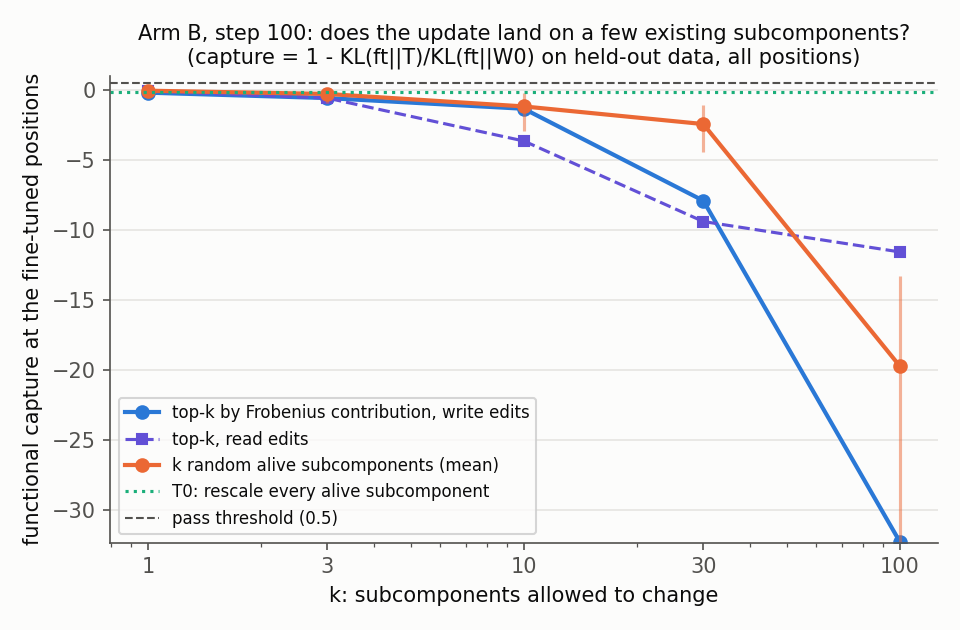
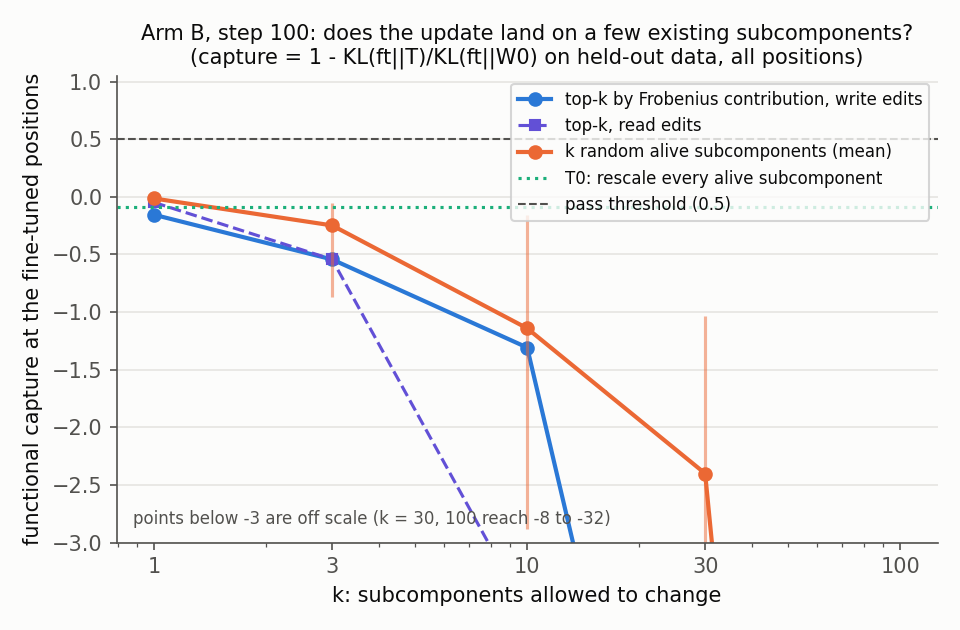
Corrections after review: PGD gap was scope after all (failed edit delayed the fix); open causes named as open; TRIED wording; arm-B axis; results notebook

diff --git a/experiments/transport_test/plot.py b/experiments/transport_test/plot.py
@@ -64,7 +64,10 @@ def capture_vs_k(arm: str) -> None:
     ax.set_xticklabels([str(k) for k in ks])
     ax.set_xlabel("k: subcomponents allowed to change")
     ax.set_ylabel("functional capture at the fine-tuned positions")
-    ax.set_ylim(min(-0.1, min(means + top) - 0.05), 1.05)
+    lo = min(means + top)
+    ax.set_ylim(max(-3.0, min(-0.1, lo - 0.05)), 1.05)
+    if lo < -3.0:
+        ax.text(0.02, 0.04, "points below -3 are off scale (k = 30, 100 reach -8 to -32)", transform=ax.transAxes, fontsize=8, color=MUTED)
     where = "emoticon position" if arm == "A" else "all positions"
     ax.set_title(f"Arm {arm}, step {step}: does the update land on a few existing subcomponents?\n(capture = 1 - KL(ft||T)/KL(ft||W0) on held-out data, {where})", fontsize=10)
     ax.grid(True, axis="y")

diff --git a/reports/2026-10-14_analysis_transport-test.md b/reports/2026-10-14_analysis_transport-test.md
@@ -2,8 +2,9 @@
 
 *2026-10-14, coding agent. Scores `experiments/transport_test/results/predictions.json` (filed 12:49, before any GPU
 run) against the results in `experiments/transport_test/results/`. Figures in `experiments/transport_test/figures/`.
-Deviations from the filed set-up, each made before the measurement it touches: the adversarial metric's scope and a
-code fix (`2026-10-14_decision_pgd-scope.md`), and the window scan size (`2026-10-14_decision_window-scan-size.md`).*
+Deviations from the filed set-up, each made before the measurement it touches: the adversarial metric's scope, one
+adversary per 128 rows as in the paper rather than per 8 (`2026-10-14_decision_pgd-scope.md`, which also records a
+failed edit that delayed the fix by one pod), and the window scan size (`2026-10-14_decision_window-scan-size.md`).*
 
 ## Headline
 
@@ -73,27 +74,27 @@ k ≥ 30 the top-k write edits reproduce the emoticon position but wreck the sur
 
 The k = 1 result is informative on its own: a single write-vector edit on the subcomponent with the largest
 Frobenius contribution (`h.2.attn.k_proj:206`) does nothing, and the top-10 set contains none of the emoticon family
-(it spans eight matrices, mostly layer 0). The paper's manual edit of `2359`'s write vector does produce the behaviour,
-so a k = 1 edit on `2359` chosen by function rather than by Frobenius contribution would very likely capture most of
-it. The Frobenius ranking across matrices is the wrong selector: it is dominated by matrices where δW is large
+(it spans eight matrices, mostly layer 0). The paper's manual edit of `2359`'s write vector does produce the behaviour; a
+k = 1 fitted write edit on `2359` is the first measurement of round 2, not a result of this one. The Frobenius ranking across matrices is the wrong selector: it is dominated by matrices where δW is large
 (the MLP input projections carry 38% of ‖δW‖²) rather than where the function changes.
 
 **Function, pretraining arm (measure 2).** Every transport fitted on 512 training rows makes the held-out model
 further from the fine-tuned one than W0 is (capture −0.09 for T0 functional, −0.16 to −32 for k-sparse edits, the
-random sets likewise). The fine-tune's held-out effect is 0.014 nats; the fits chase training noise larger than that.
-By the filed conditioning rule this is a fail, not an ill-conditioned run, but the honest reading is that the
-functional side of arm B needs a larger effect before it says anything about commuting; the Frobenius side (ratio
-1.5) does not have that problem and fails cleanly.
+random sets likewise). The fine-tune's held-out effect is 0.014 nats. Whether the fits overfit the training rows or
+the α parametrisation cannot represent this update is not settled by what was recorded: training-set capture was
+not measured. That measurement, and a fine-tune with a held-out effect of order 0.1 nats, settle it. By the filed
+conditioning rule this is a fail, not an ill-conditioned run. The Frobenius side (ratio 1.5) does not depend on the
+fit and fails cleanly.
 
 **Faithfulness at W0 + δW (measure 3).** Stochastic ratios are 0.94 to 1.02 for every variant and checkpoint in both
 arms. Adversarial ratios for arm B are 1.05 to 1.18. For arm A at step 10 the null transport gives 2.43 and T0
 2.32, both from block 1 (2.6 against 0.8 for block 0; on W0 the blocks are 0.68 and 0.72); T1 write k=10 gives 1.43;
-at steps 30, 100 and 300 the null transport gives 1.02, 1.14 and 1.27 with larger δW. The unmasked KL of the
-untouched decomposition rises from 0.012 on W0 to 0.034 to 0.063 on the fine-tuned models: Δ absorbs δW and the
-decomposition's own reconstruction of the new model is three to five times worse than of the old, while the stochastic
-metric, which routes through Δ with its own mask, does not see it. The brittleness branch of `GOALS.md` is not
+at steps 30, 100 and 300 the null transport gives 1.02, 1.14 and 1.27 with larger δW. The brittleness branch of `GOALS.md` is not
 supported: no variant loses faithfulness by the stochastic measure, and the adversarial excursion is one block at one
-checkpoint.
+checkpoint. One more number belongs with measure 1 rather than here: the unmasked KL with Δ excluded rises from 0.012
+on W0 to 0.034 to 0.063 on the fine-tuned models under the null transport. With Δ excluded that quantity is close to
+the size of the fine-tune's own effect, and with Δ included it is zero by construction; it says δW went into Δ,
+which is the span result again, not a faithfulness loss.
 
 **Location (measure 4).** At step 10 the emoticon family is where the paper's editing section put it: `2359` second
 in its matrix, with a negative α (δW shrinks `2359`'s direction while adding the `o` push elsewhere), `3382`, `1672`
@@ -115,8 +116,7 @@ update grows, even though the behaviour is saturated from step 10 on.
   missed it.
 - Arm A needs checkpoints at steps 1 to 5; arm B needs a learning rate that gives a held-out effect of order 0.1
   nats before its functional half means anything.
-- Measure 3 should include the unmasked KL (Δ included and excluded) as the sensitive faithfulness number; the
-  stochastic metric is blind to δW moving into Δ.
+- Record training-set capture beside held-out capture, so overfitting and under-parametrisation can be told apart.
 
 None of these are the re-decomposition test or the toy-model calibration in `backlog.md`; they are the next round of
 the same experiment with a better null and selector, and they go through `/design` first.

diff --git a/experiments/TRIED.md b/experiments/TRIED.md
@@ -16,4 +16,4 @@ result, or proposal that gets dropped. Each row says what was found and why we m
 
 | # | Experiment | Set-up | Found | Why we moved on |
 |---|---|---|---|---|
-| 1 | Transport test, round 1 (`experiments/transport_test`, 2026-10-14; `reports/2026-10-14_analysis_transport-test.md`) | Released 67M Pile model + VPD decomposition, frozen Γ and Δ. Arm A: full-weight fine-tune on 365 emoticon windows (P(o) 0.999 by step 10); arm B: continued pretraining (held-out effect 0.014 nats). Transports: Frobenius projection on alive subcomponents, functional rescaling of all alive, k-sparse write/read edits on top-k by Frobenius contribution vs k random alive | δW is not in the span of the rank-1 subcomponents: Frobenius fraction 0.05–0.06% vs 0.035% for a random direction (predicted ≥ 10×; reversed). Functionally the emoticon behaviour is reproduced by 10 edited subcomponents, but 10 *random* ones do as well (0.987 vs 1.000; predicted margin ≥ 0.3; reversed); at k = 3 top beats random by 0.16. The paper's `2359` ranks 2nd in its matrix at step 10 and disperses by step 30. Decomposition stays faithful under every transport by the stochastic metric (ratios 0.94–1.02); adversarial excursion to 2.4 at one checkpoint, one block. Arm B functional fits overfit (capture < 0) | The null (free write vectors) is too expressive and the Frobenius selector picks the wrong subcomponents; next round needs a scale-only or constrained null, a functional selector, checkpoints at steps 1–5, a larger arm-B effect, and selectivity on generic text. Through `/design` first |
+| 1 | Transport test, round 1 (`experiments/transport_test`, 2026-10-14; `reports/2026-10-14_analysis_transport-test.md`) | Released 67M Pile model + VPD decomposition, frozen Γ and Δ. Arm A: full-weight fine-tune on 365 emoticon windows (P(o) 0.999 by step 10); arm B: continued pretraining (held-out effect 0.014 nats). Transports: Frobenius projection on alive subcomponents, functional rescaling of all alive, k-sparse write/read edits on top-k by Frobenius contribution vs k random alive | δW is not in the span of the rank-1 subcomponents: Frobenius fraction 0.05% (arm B, scored: predicted ≥ 10× random, got 1.5×; reversed) and 0.06% (arm A, reported) vs 0.035% for a random direction. Functionally the emoticon behaviour is reproduced by 10 edited subcomponents, but 10 *random* ones do as well (0.987 vs 1.000; predicted margin ≥ 0.3; reversed); at k = 3 top beats random by 0.16. The paper's `2359` ranks 2nd in its matrix at step 10 and disperses by step 30. Decomposition stays faithful under every transport by the stochastic metric (ratios 0.94–1.02); adversarial excursion to 2.4 at one checkpoint, one block. Arm B functional fits overfit (capture < 0) | The null (free write vectors) is too expressive and the Frobenius selector picks the wrong subcomponents; next round needs a scale-only or constrained null, a functional selector, checkpoints at steps 1–5, a larger arm-B effect, and selectivity on generic text. Through `/design` first |

diff --git a/reports/2026-10-14_decision_pgd-scope.md b/reports/2026-10-14_decision_pgd-scope.md
@@ -29,7 +29,20 @@ gradients accumulated over sub-batches of 8 before each of the 20 steps of 0.1, 
 val rows 0..127, so that the adversary's scope is the paper's 128 rows. The stochastic, CI-masked and unmasked
 metrics are computed on the same 128 rows (previously 64). Nothing else changes.
 
-## Second calibration: the scope was not the cause
+## Correction (2026-10-14, after pod 3): the scope was the whole cause
+
+The sections below this one record what was believed after pod 2 and are left as written. Pod 3 found that the
+edit described under "Decision" had never reached the function body: the string replacement rewrote the module
+docstring and left `faithfulness()` calling the authors' single-batch `pgd_recon_loss`, one adversary per 8-row
+batch. Pod 2's "multi-batch" calibration therefore re-measured the same per-8-row adversary (8.39 against 8.11). With
+the multi-batch call actually in place (commit `ea4df42`, one adversary shared across 128 rows, gradients
+accumulated over 16 sub-batches), the released decomposition on W0 gives 0.68 and 0.72 on two 128-row blocks against
+the paper's 0.927 and the 0.59 to 2.24 that the paper's run logged over 100 random batches. The authors' function
+and an independent re-implementation agree bit for bit. The code-identity check and the W&B history below stand;
+the "second calibration" paragraph's conclusion that scope was not the cause does not. The paper's adversarial
+number is reproducible.
+
+## Second calibration as read at the time (superseded by the correction above)
 
 With one adversary shared across 128 rows the metric came out at 8.39 (stochastic 0.245, CI-masked 0.344, unmasked
 0.012 unchanged). Against the number of PGD steps on the same rows: 2 → 0.33, 5 → 0.84, 10 → 2.86, 20 → 8.39; the
@@ -59,8 +72,8 @@ Written 2026-10-14 after pod 2 and before pod 3's `check_pgd.py` numbers were se
 stochastic and adversarial. The adversarial ratio is scored as filed only if, on W0, (a) the two 128-row blocks'
 20-step adversarial KL agree within a factor of 2 and (b) the top 1% of positions carry less than half of the mean
 in each block. If either fails, the adversarial ratio is reported but not scored and prediction 3 rests on the
-stochastic ratio alone. Predictions 1a, 1b and 2 do not use the adversarial metric. The title of this report says
-"repair"; the scope change did not close the gap, and the gap is carried into the analysis as an open item.
+stochastic ratio alone. Predictions 1a, 1b and 2 do not use the adversarial metric. (Written when the gap
+was thought open; see the correction above: the gap closed once the scope change actually reached the code.)
 
 ## Why this is a repair and not a post-hoc choice
 
